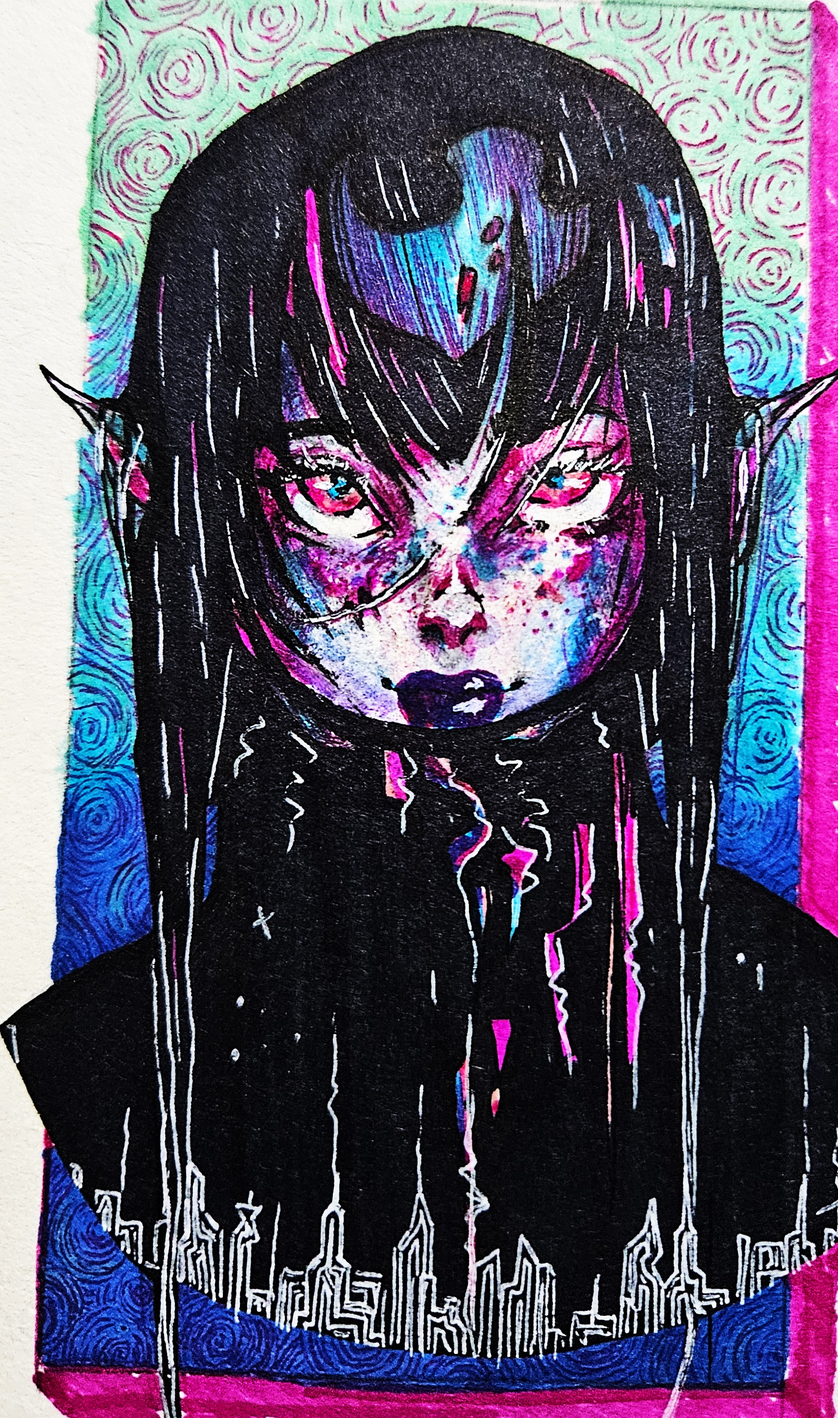
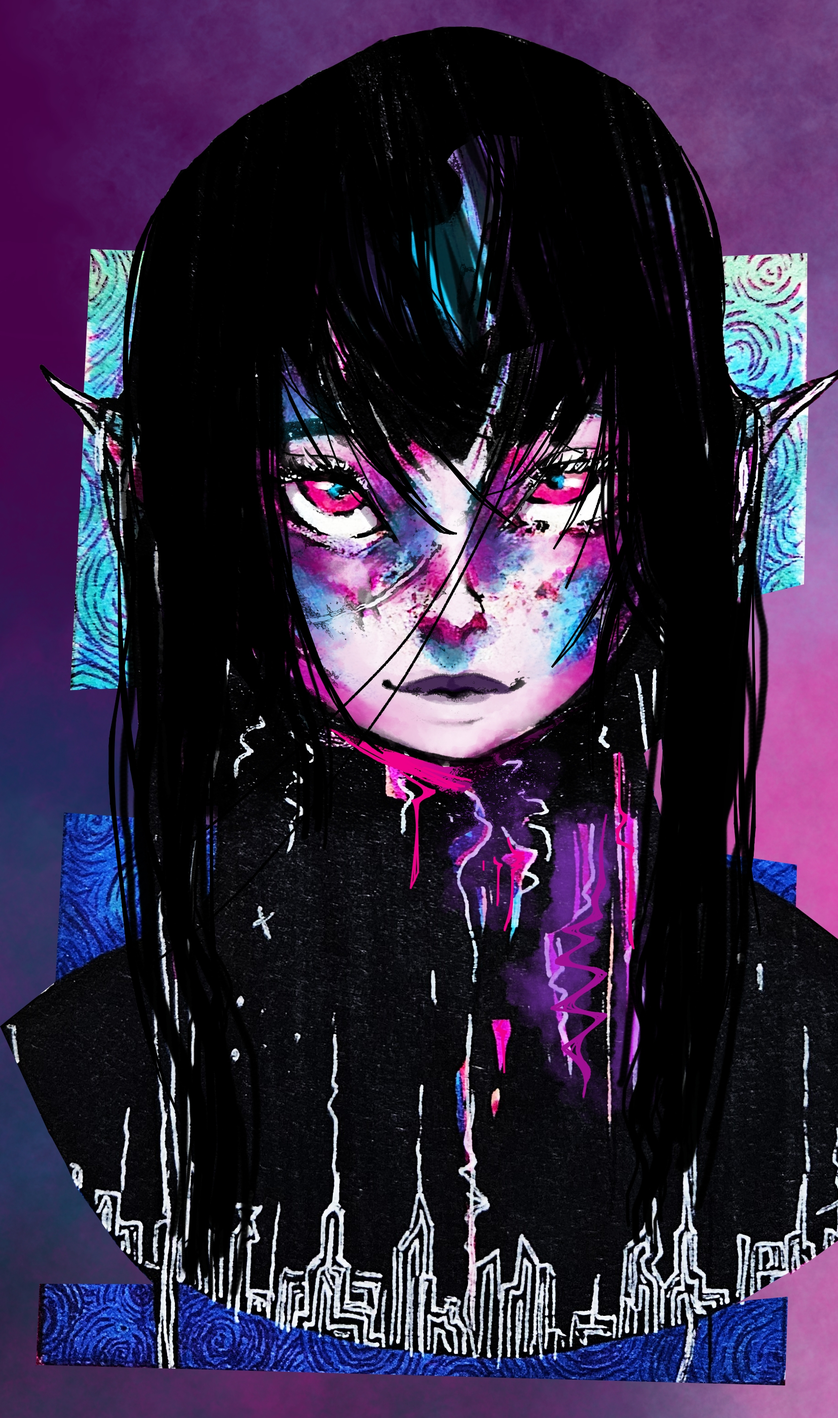
Docs: CSS adjustments and HTML cleanup
Added a lot of general page elements for CSS. Tidied up the HTML a bit. reduced redundancies.

diff --git a/Pages/illustrations.html b/Pages/illustrations.html
@@ -13,9 +13,6 @@
 
  <body>
     
-
-
-
  <!--heading-->
 <header aria-label="Illustrations">
     <h1 aria-hidden="true"> &#127800 Illustrations &#127800</h1>  
@@ -33,24 +30,23 @@
 <!--Photos of my artwork-->
 
 <section id="collection">
-    
-<!--final bond-->
-<div class="gallery" >
-        
-<img src="Photo-webpage/Acrylic-FinalBond.jpg" 
+        <!--final bond-->
+    <div class="artwork-item" > 
+        <div class="artwork"  >  
+        <img src="Photo-webpage/Acrylic-FinalBond.jpg" 
 alt="Title: Final Bond. Actrylic and oil on canvas. A female portrait set on a wild background of inter-flowing colours and shapes, clouds and planets, feathers and stars. The main colours are pink, blue, and orange"
 >
-</div>
-
+</div>  
 <p><strong>
     &#127989 Final Bond
 </strong>
  - Acrylic & Oil on canvas. Inspired by a conversation with a friend, signifying the final bond needed in becoming close.
-
 </p>
+</div>
 
 <!--Medusa-->
-<div class="gallery" >
+<div class="artwork-item" > 
+    <div class="artwork"  >  
 <img src="Photo-webpage/Medusa-WIP.jpg" 
 alt="Title: Medusa. Watercolor and Ink on hot-pressed paper. A female bust-portrait, with elongated neck and extended mouth.Composition is somewhat unsaturated, playing off the cool blue tones present">
 </div>
@@ -59,9 +55,11 @@ alt="Title: Medusa. Watercolor and Ink on hot-pressed paper. A female bust-portr
 </strong>
 - Watercolour & Ink on hot-pressed paper. Inspired by the Greek myth of Medusa and Posidon.
 </p>
+</div>
 
 <!--formal-->
-<div class="gallery">
+<div class="artwork-item" > 
+    <div class="artwork"  >  
 <img src="Photo-webpage/Formal.jpg" 
 alt="Title: Formal. Ink on cold-pressed paper. A black & white composition of a woman in black. Negative space is used to create the shap of her torso, and her hair moves like liquid into the top of the composition">
 </div>
@@ -71,9 +69,11 @@ alt="Title: Formal. Ink on cold-pressed paper. A black & white composition of a 
 </strong>
 - Ink on Cold-pressed paper. Inspired by the song "<em>Echo Sax End</em>" by Caleb Arredondo.
 </p>
+</div>
 
 <!--Joyride-->
-<div class="gallery">
+<div class="artwork-item" > 
+    <div class="artwork"  >  
 <img src="Photo-webpage/JoyRide.png" 
 alt="Title: Joyride. Digital media. Vibrant, neon portrait composition of a demon girl with a wild expression. Background is a starry gradient from deep navy to muted purple. ">
 </div>
@@ -84,9 +84,11 @@ alt="Title: Joyride. Digital media. Vibrant, neon portrait composition of a demo
 </strong>
 - Digital media. Inspired by the song "<em> Joyride</em>" by Kesha
 </p>
+</div>
 
 <!--windswept-->
-<div class="gallery">
+<div class="artwork-item" > 
+    <div class="artwork"  >  
 <img src="Photo-webpage/Windswept-classic.jpg" 
 
 alt="Title: Windswept. Alcohol ink on cold-pressed paper. Close-up portrait of woman's face. Composition is blue and green in tone. Woman's expression is placid, her angular blue and black hair being blown across her face and the composition by an unseen wind."
@@ -99,6 +101,52 @@ width="100%"></div>
 </p>
 
 </div>
+
+<!--Out of Abyss-->
+<div class="artwork-item" > 
+    <div class="artwork"  >  
+<img src="Photo-webpage/AlbumCover-Illustration.png" 
+
+alt="Title: Out of Abyss. Digital art. Side veiw of a woman walking through an orange forest. Foxes emerge from the black folds of her cloak. main colors of the image are black, white, and orange."
+width="100%"></div>
+<p>
+<strong>
+    &#127989  Out Of Abyss
+</strong>
+- Digital art piece representing elements of mischief, deception, and fellowship.
+</p>
+
+</div>
+
+<!--Out of Abyss-->
+<div class="artwork-item" > 
+    <div class="artwork"  >  
+<img src="Photo-webpage/EyesOfTheMob.png" 
+
+alt="Title: Eyes of the Mob. Digital art. Many bird forms come together to make an amorphous mob. Diagonal symmetry is used, with a black sun on the bottom left corner, and the mob of white crows on the top right. A repeating eye motif is used frequently throughout the piece. Color pallet is orange, white, and black."
+width="100%"></div>
+<p>
+<strong>
+    &#127989  Eyes of the Mob
+</strong>
+- Digital art piece representing group perspective, but also group overwhelm. 
+</p>
+
+</div>
+
+<!--Techno-->
+<div class="artwork-item" > 
+    <div class="artwork"  >  
+<img src="Photo-webpage/TechnoFantasy.jpg" 
+
+alt="Title: Techno. Digital art. Neon pink and blue on blck elements create a front-profile face of a young woman. A cityscape is created in white at the bottom of her clothing. The piece uses a bust frame."
+width="100%"></div>
+<p>
+<strong>
+    &#127989  Techno
+</strong>
+- Digital art piece with chaotic elements coming together to represent the mood of a city.
+</p>
 
 </div>
 </section>

diff --git a/CSS/main.css b/CSS/main.css
@@ -45,14 +45,38 @@ nav li {
     padding: 5px;
 }
 a {
-    color: #9A5C94;
+    color: #ffd7fb;
 }
+
+nav a {
+    position: relative;
+    color: #9A5C94;
+    text-decoration: none;
+}
+nav a::after {
+    content: '';
+    position: absolute;
+    width: 100%;
+    height: 2px;
+    bottom: -5px;
+    left: 0;
+    background-color: #9A5C94;
+    visibility: hidden;
+    transform: scaleX(0);
+    transition: all 0.3s ease-in-out;
+}
+nav a:hover::after {
+    visibility: visible;
+    transform: scaleX(1);
+}
+
+
 /*Showcase alignments and padding*/
 
 div#Showcase {
     display: flex;
     flex-direction: row-reverse;
-    justify-content: space-between;
+    justify-content: space-evenly;
     
 }
 
@@ -67,17 +91,51 @@ div.artwork > img {
     
 }
 
-/* Gallery alignments & Padding*/
-div.gallery {
+/* Flexbox container & Column */
+#collection {
     display: flex;
-    flex-direction: column;
-      
+    flex-wrap: wrap;
+    justify-content: center;
+    align-items: center;
+    gap: 20px; /* Space between items */
 }
 
-div.gallery img {
-    width: 50%;
+/* Artwork sizing */
+.artwork-item {
+    display: flex;
+    flex-direction: column;
     align-items: center;
+    width: 70%;
+    padding: 10px;
+    box-sizing: border-box;
 }
+
+/* Styling pieces */
+.artwork img {
+    width: 100%; /* width of images related to container */
+    max-width: 400px; 
+    border: 5px solid #9A5C94;
+    border-radius: 10px;
+}
+.artwork-item img {
+    transition: transform 0.3s ease, filter 0.3s ease;
+}
+.artwork-item img:hover {
+    transform: scale(1.5);
+    filter: grayscale(0);
+    box-shadow: 0 4px 8px rgba(0, 0, 0, 0.3);
+}
+
+.artwork-item {
+    opacity: 0;
+    animation: fadeIn 1s ease forwards;
+}
+
+@keyframes fadeIn {
+    from { opacity: 0; transform: translateY(20px); }
+    to { opacity: 1; transform: translateY(0); }
+}
+
 
 
 /*logo*/
@@ -88,7 +146,7 @@ div.gallery img {
 }
 
 .slogan {
-    color: #b700a5;
+    color: #000000;
    text-align: center;
    font-size: large;
 }
@@ -96,3 +154,9 @@ div.gallery img {
 ol > li::marker {
     font-weight: bold;
   }
+
+  /* general page elements */
+
+  body {
+    background: linear-gradient(to bottom, #f0f8ff, #9A5C94);
+}

diff --git a/index.html b/index.html
@@ -8,6 +8,7 @@
   width: 100%;
 }
 
+
 th, td {
   padding: 8px;
   text-align: left;
@@ -103,7 +104,7 @@ background-color:#9A5C94;"
   >Contact me on</h2>
 
 <table>
-    <tr style="color:#4a0c44;text-align: left;">
+    <tr style="color:#000000;text-align: left;">
       <th>Social Media</th>
       <th>Handle</th>
       <th>Reason</th>
